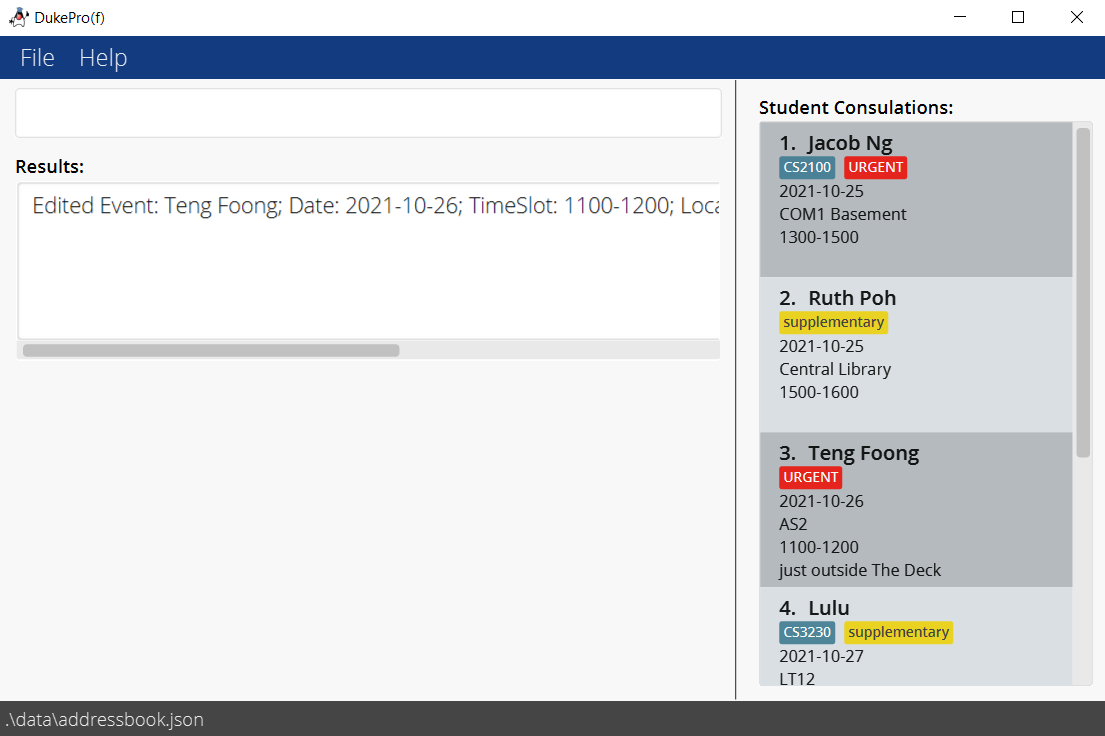
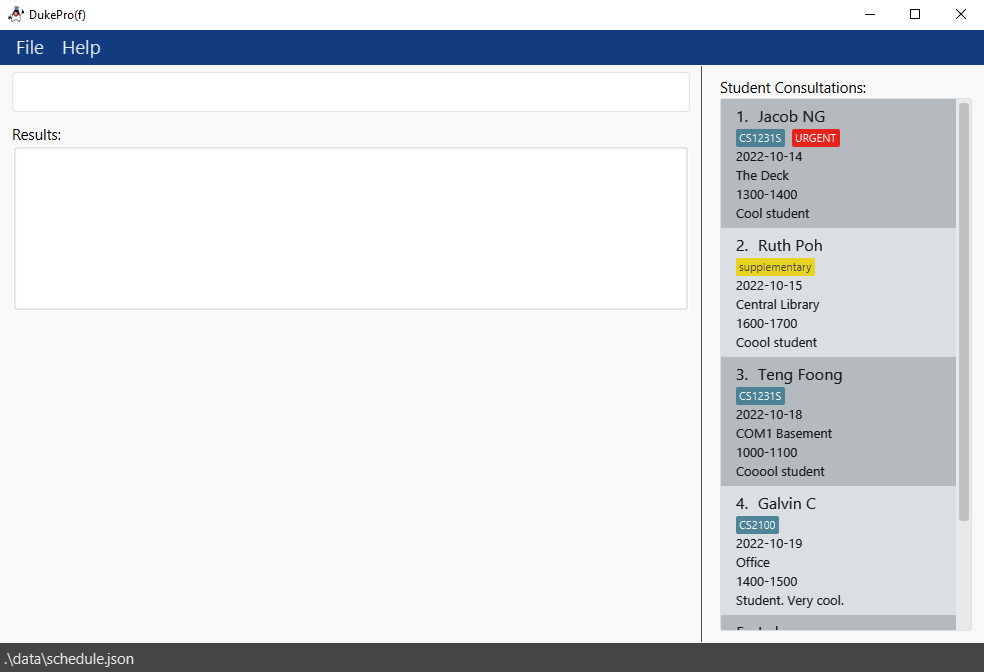
Update images in UG

Changed region(s): [[0.0, 0.0, 1.0, 1.0], [0.0, 0.4688, 0.3659, 0.5]]

diff --git a/docs/UserGuide.md b/docs/UserGuide.md
@@ -212,9 +212,9 @@ Action | Format | Example(s)
 ***
 ### Managing Your Consultations
 Listed below are the commands for managing your consultations.
-Consultation events listed in the Consultation List are sorted in chronological order, earliest 
-consultation at the top, and latest consultation at the bottom. All consultations, existing and 
-to-be-added, events cannot overlap.
+Consultation events listed in the Consultation List are sorted in chronological order with the earliest 
+consultation at the top and the latest consultation at the bottom. All consultation events, existing or 
+to-be-added, cannot overlap.
 
 Listed is a description of the various fields of a Consultation Event:
 * NAME: Name of student involved in the consultation
@@ -362,6 +362,10 @@ Result Display.
 
 Format: `list_free`
 
+Here's an example of what your screen should look like after entering the `list_free` command:
+
+<img src="images/list_free.png.png" width="600px">
+
 <div markdown="block" class="alert alert-info"> :information_source: 
 **Note:** An empty schedule i.e. with 0 events and 0 blocked slots in the schedule, will not have any free 
 slots displayed.
@@ -403,6 +407,10 @@ Example(s):
 Lists all blocked time slots in the Result Display.
 
 Format: `list_blocked`
+
+Here's an example of what your screen should look like after entering the `list_blocked` command:
+
+<img src="images/list_blocked.png.png.png" width="600px">
 
 <br>
 
